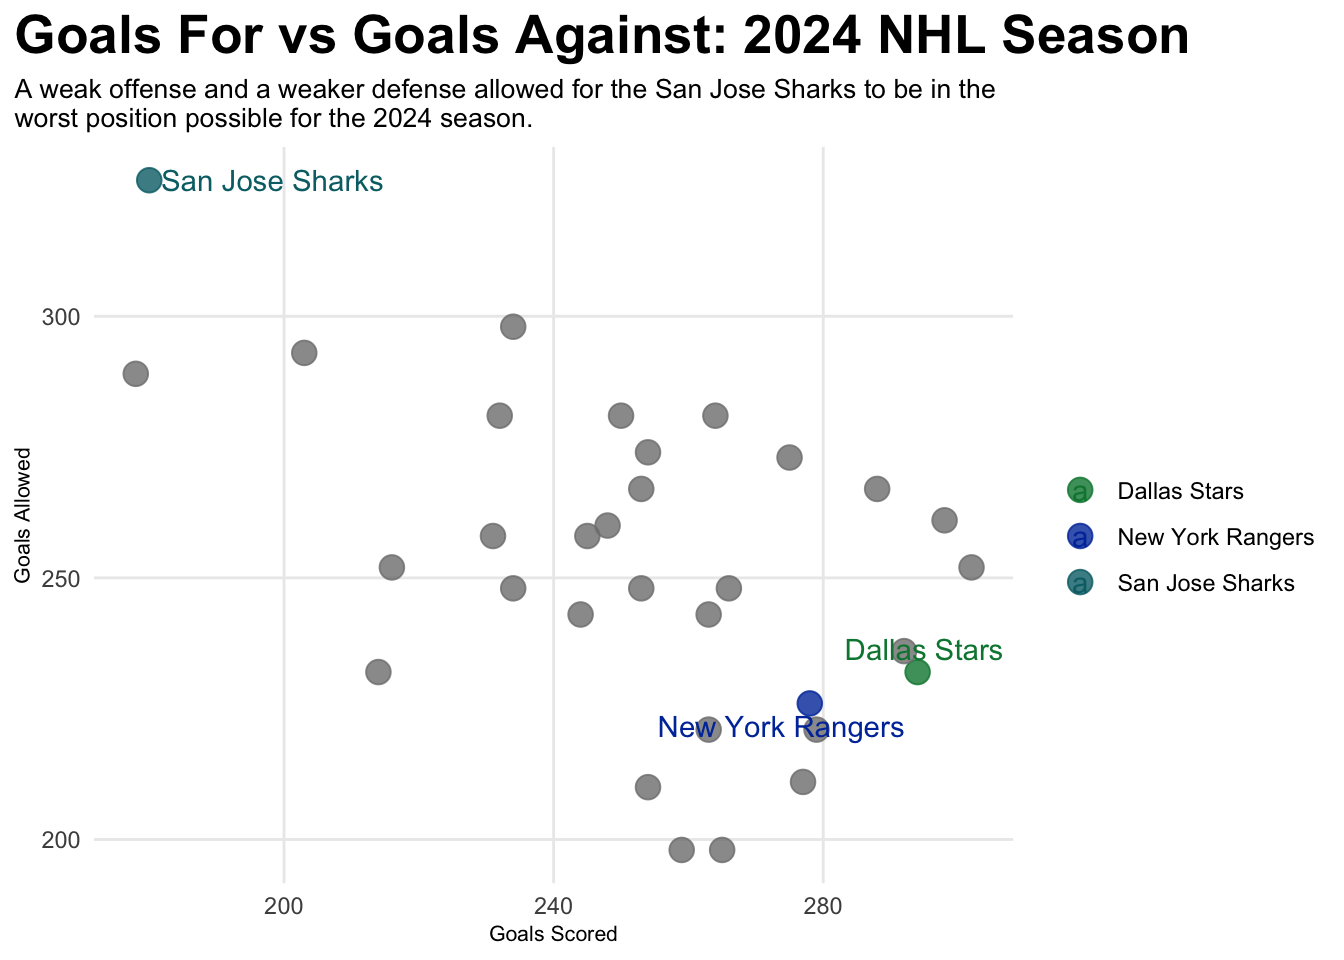
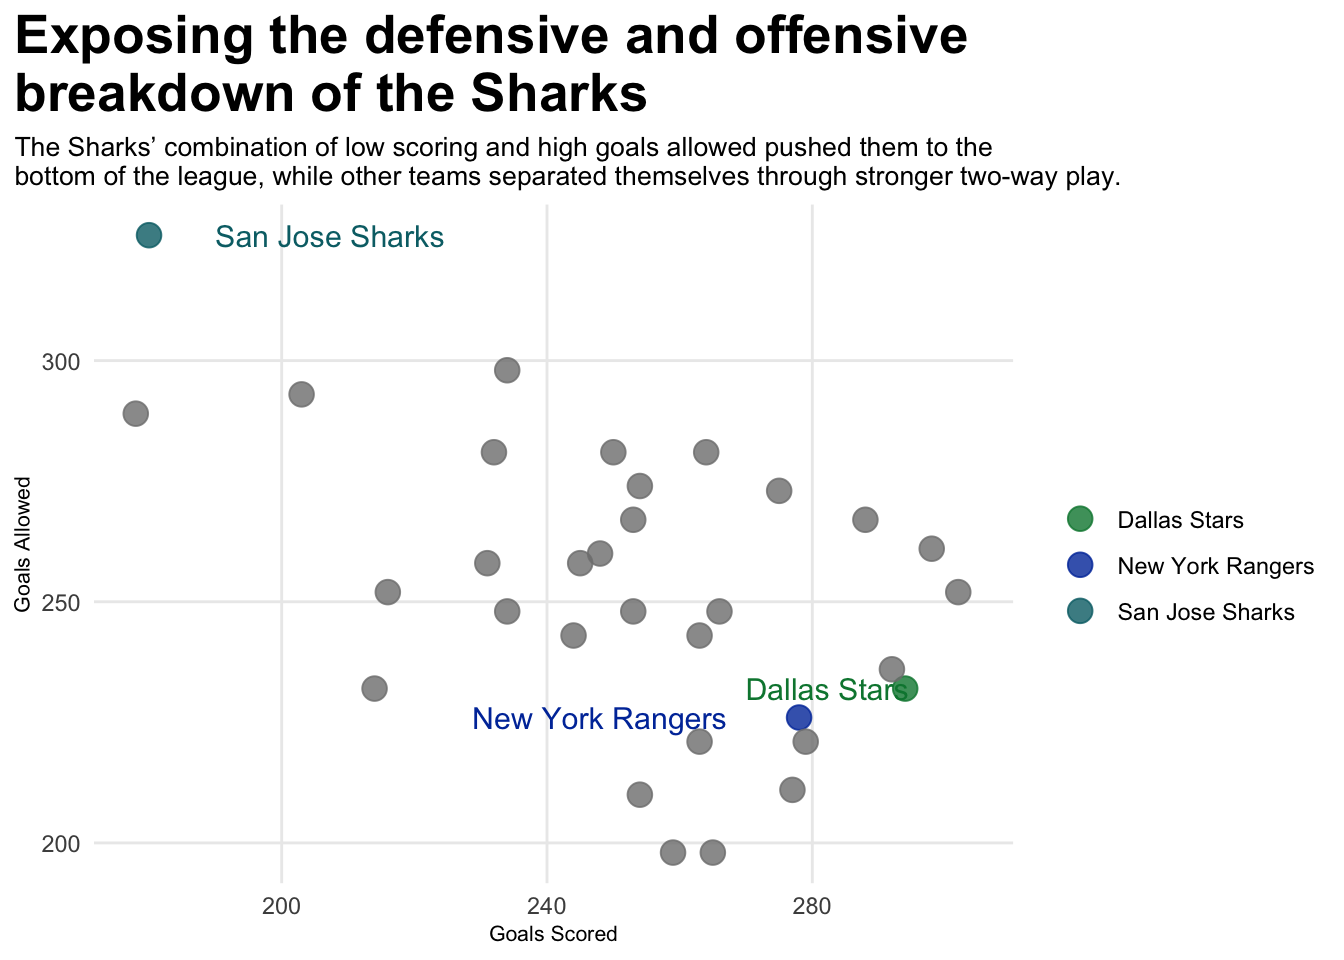
final

diff --git a/index.html b/index.html
@@ -209,15 +209,15 @@ window.Quarto = {
 
 <div class="quarto-listing quarto-listing-container-default" id="listing-listing">
 <div class="list quarto-listing-default">
-<div class="quarto-post image-right" data-index="0" data-categories="bmhsJTJDc2Fuam9zZSUyQ2hvY2tleSUyQ3Nhbmpvc2VzaGFya3M=" data-listing-date-sort="1765260000000" data-listing-file-modified-sort="1765218885510" data-listing-date-modified-sort="NaN" data-listing-reading-time-sort="7" data-listing-word-count-sort="1229">
-<div class="thumbnail"><a href="./posts/volleyball-positions-underrated/index.html" class="no-external">
+<div class="quarto-post image-right" data-index="0" data-categories="bmhsJTJDc2Fuam9zZSUyQ2hvY2tleSUyQ3Nhbmpvc2VzaGFya3M=" data-listing-date-sort="1765260000000" data-listing-file-modified-sort="1765226924642" data-listing-date-modified-sort="NaN" data-listing-reading-time-sort="7" data-listing-word-count-sort="1275">
+<div class="thumbnail"><a href="./posts/are-the-2024-san-jose-sharks-really-that-bad/index.html" class="no-external">
 
-<img loading="lazy" src="./posts/volleyball-positions-underrated/image.png" class="thumbnail-image">
+<img loading="lazy" src="./posts/are-the-2024-san-jose-sharks-really-that-bad/image.png" class="thumbnail-image">
 
 </a></div>
 <div class="body">
 <h3 class="no-anchor listing-title">
-<a href="./posts/volleyball-positions-underrated/index.html" class="no-external">Are the San Jose Sharks really that bad?</a>
+<a href="./posts/are-the-2024-san-jose-sharks-really-that-bad/index.html" class="no-external">Are the San Jose Sharks really that bad?</a>
 </h3>
 <div class="listing-categories">
 
@@ -230,12 +230,12 @@ window.Quarto = {
 <div class="listing-category" onclick="window.quartoListingCategory('c2Fuam9zZXNoYXJrcw=='); return false;">sanjosesharks</div>
 
 </div>
-<div class="delink listing-description"><a href="./posts/volleyball-positions-underrated/index.html" class="no-external">
+<div class="delink listing-description"><a href="./posts/are-the-2024-san-jose-sharks-really-that-bad/index.html" class="no-external">
 The 2024 season for the San Jose Sharks was a tough watch for many NHL fans, but most definitely tough for Sharks fans. The Sharks ended their season with a record of 19 -…
 </a></div>
 </div>
 <div class="metadata">
-<a href="./posts/volleyball-positions-underrated/index.html" class="no-external">
+<a href="./posts/are-the-2024-san-jose-sharks-really-that-bad/index.html" class="no-external">
 <div class="listing-date">
 Dec 9, 2025
 </div>
